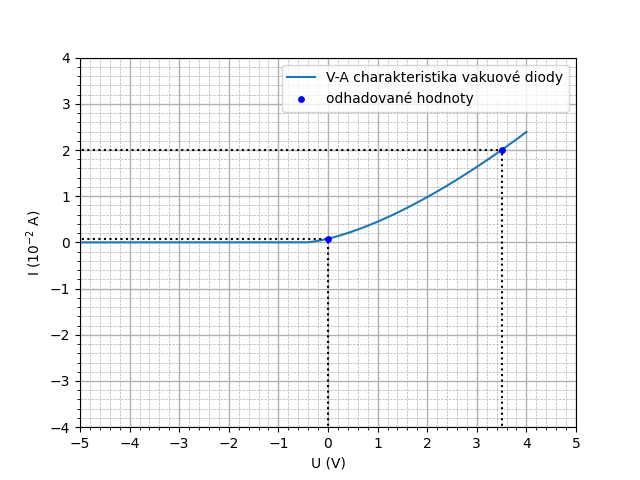
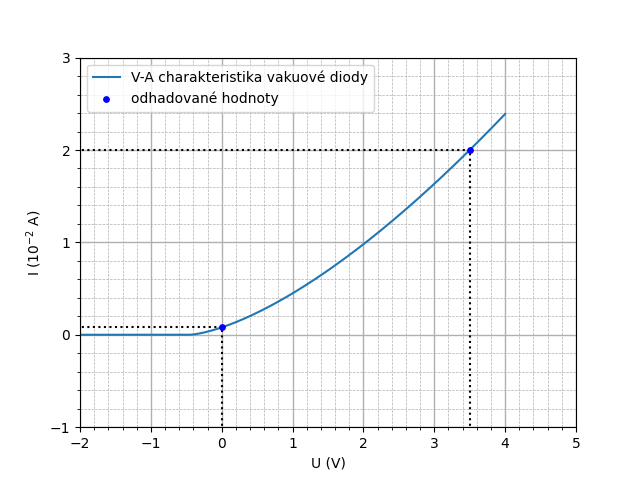
f

diff --git a/code52.py b/code52.py
@@ -27,17 +27,17 @@ ax.plot(U, I, label='V-A charakteristika vakuové diody')
 ax.set_xlabel('U (V)')
 ax.set_ylabel('I ($10^{-2}$ A)')
 
-ax.set_xlim(-5, 5)
-ax.set_ylim(-4, 4)
+ax.set_xlim(-2, 5)
+ax.set_ylim(-1, 3)
 xmin, xmax = ax.get_xlim()
 ymin, ymax = ax.get_ylim()
 print('xlim:', xmin, xmax, 'ylim:', ymin, ymax)
 gh = 0.85
 
-ax.axhline(2, color='black', linestyle=':', xmin=-5, xmax=0.85)#(3.5 - xmin) / (xmax - xmin))
-ax.axhline(0.08, color='black', linestyle=':', xmin=-5, xmax=0.5)
-ax.axvline(0, color='black', linestyle=':', ymin=-4, ymax=4.08/8)
-ax.axvline(3.5, color='black', linestyle=':', ymin=-4, ymax=6/8)
+ax.axhline(2, color='black', linestyle=':', xmin=-5, xmax=(3.5 - xmin) / (xmax - xmin))
+ax.axhline(0.08, color='black', linestyle=':', xmin=-5, xmax=(-xmin)/(xmax-xmin))
+ax.axvline(0, color='black', linestyle=':', ymin=-1, ymax=(0.08-ymin)/(ymax-ymin))
+ax.axvline(3.5, color='black', linestyle=':', ymin=-1, ymax=(2-ymin)/(ymax-ymin))
 ax.scatter(u0, i0, color='blue', s=15, zorder=5, label='odhadované hodnoty')
 
 ax.xaxis.set_major_locator(ticker.MultipleLocator(1))
@@ -47,7 +47,7 @@ ax.yaxis.set_minor_locator(ticker.MultipleLocator(0.2))
 
 ax.grid(which='major', linewidth=1)
 ax.grid(which='minor', linewidth=0.5, linestyle='--')
-ax.legend()
+ax.legend(loc='upper left')
 fig.savefig('uloha5/fig3.png')
 
 plt.show()
